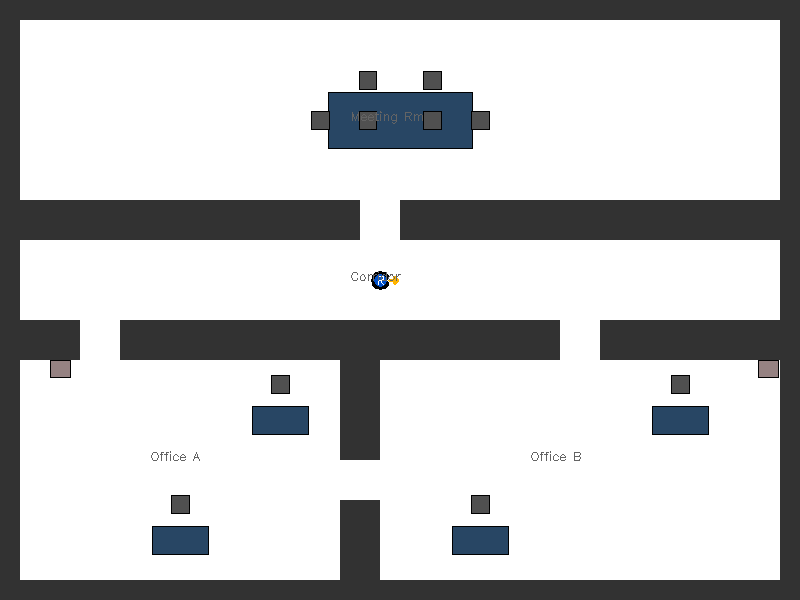
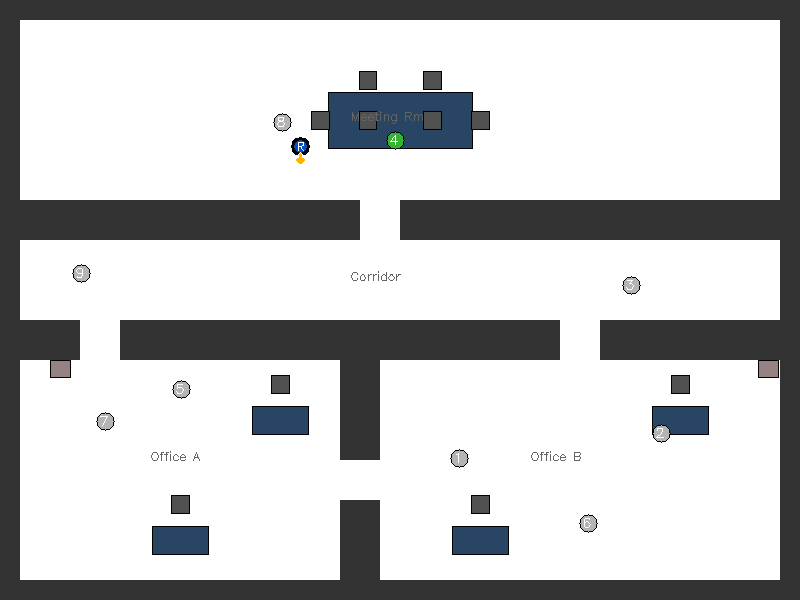
fixed los bug due to using odom

diff --git a/src/metrics/object_detection_tracker.py b/src/metrics/object_detection_tracker.py
@@ -77,14 +77,15 @@ class ObjectDetectionTracker:
         self._start_time: float = 0.0
         self._first_detections: dict[str, float] = {}  # class_id → elapsed_s
         self._sub: Any = None
-        self._odom_sub: Any = None
+        self._odom_sub: Any = None   # fallback only; kept alive while subscribed
+        self._gz_node: Any = None    # gz-transport node; kept alive to maintain subscription
         # LOS state — camera world position (precomputed from robot pose + offset)
         self._robot_pose: tuple[float, float] | None = None  # camera world (x, y)
         self._pgm_pixels: list[list[int]] | None = None      # occupancy grid rows
         self._pgm_W: int = 0
         self._pgm_H: int = 0
         self._map_res: float = 0.5  # metres per grid cell
-        # Spawn offset (world frame) — loaded from world_state.json
+        # Spawn offset — only used for the odom fallback path
         self._spawn_x: float = 0.0
         self._spawn_y: float = 0.0
         self._spawn_yaw: float = 0.0  # kept alive to keep subscription active
@@ -108,14 +109,26 @@ class ObjectDetectionTracker:
     def _load_pgm(self) -> None:
         """Load occupancy grid from PGM for LOS ray-casting."""
         try:
-            import cv2
+            import numpy as np  # noqa: PLC0415
 
             state = json.loads(_WORLD_STATE_PATH.read_text())
             self._map_res = float(state.get("map_resolution", 0.5))
             pgm_path = state["map_pgm"]
-            grid = cv2.imread(pgm_path, cv2.IMREAD_GRAYSCALE)
-            if grid is None:
+            raw = open(pgm_path, "rb").read()  # noqa: WPS515
+            # Parse P5 (binary) PGM header — same logic as exploration_coverage.py
+            lines: list[str] = []
+            idx = 0
+            while len(lines) < 3:
+                end = raw.index(b"\n", idx)
+                token = raw[idx:end].strip()
+                idx = end + 1
+                if not token or token.startswith(b"#"):
+                    continue
+                lines.append(token.decode())
+            if lines[0] != "P5":
                 return
+            W, H = map(int, lines[1].split())
+            grid = np.frombuffer(raw[idx:], dtype=np.uint8).reshape((H, W))
             self._pgm_H, self._pgm_W = grid.shape
             # Store as list-of-lists (row-major, row 0 = top of map = max world-y)
             self._pgm_pixels = grid.tolist()
@@ -123,9 +136,19 @@ class ObjectDetectionTracker:
             pass
 
     def _start_pose_listener(self) -> None:
-        """Subscribe to /odom and keep self._robot_pose (camera world pos) current."""
+        """Track camera world position for LOS checks.
+
+        Primary: gz-transport ground-truth pose (accurate, no drift).
+        Fallback: ROS /odom (used only if gz-transport is unavailable).
+        """
+        # robot name = first segment of topic, e.g. /derpbot_0/detections → derpbot_0
+        robot = self._topic.strip("/").split("/")[0]
+
+        # ── Read world_state.json for world_name + spawn offset (odom fallback) ──
+        world_name: str = ""
         try:
             state = json.loads(_WORLD_STATE_PATH.read_text())
+            world_name = state.get("world_name", "")
             sp = state.get("spawn_pose", {})
             self._spawn_x = float(sp.get("x", 0.0))
             self._spawn_y = float(sp.get("y", 0.0))
@@ -133,31 +156,44 @@ class ObjectDetectionTracker:
         except Exception:
             pass
 
-        # robot name = first segment of topic, e.g. /derpbot_0/detections → derpbot_0
-        robot = self._topic.strip("/").split("/")[0]
-        odom_topic = f"/{robot}/odom"
+        # ── Primary: gz-transport ground-truth pose ────────────────────────────
+        if world_name:
+            try:
+                from utils.gz_transport import gz_subscribe_robot_pose  # noqa: PLC0415
 
-        from nav_msgs.msg import Odometry  # noqa: PLC0415
+                def _on_gz_pose(x: float, y: float, yaw: float) -> None:
+                    self._robot_pose = (
+                        x + CAMERA_FORWARD_OFFSET * math.cos(yaw),
+                        y + CAMERA_FORWARD_OFFSET * math.sin(yaw),
+                    )
 
-        def _on_odom(msg: Any) -> None:
-            ox = msg.pose.pose.position.x
-            oy = msg.pose.pose.position.y
-            q = msg.pose.pose.orientation
-            yaw = math.atan2(
-                2.0 * (q.w * q.z + q.x * q.y),
-                1.0 - 2.0 * (q.y * q.y + q.z * q.z),
-            )
-            sy, cy = math.sin(self._spawn_yaw), math.cos(self._spawn_yaw)
-            wx = self._spawn_x + cy * ox - sy * oy
-            wy = self._spawn_y + sy * ox + cy * oy
-            wyaw = self._spawn_yaw + yaw
-            # Track camera world position (robot centre + forward offset along heading)
-            self._robot_pose = (
-                wx + CAMERA_FORWARD_OFFSET * math.cos(wyaw),
-                wy + CAMERA_FORWARD_OFFSET * math.sin(wyaw),
-            )
+                self._gz_node = gz_subscribe_robot_pose(robot, world_name, _on_gz_pose)
+            except Exception:
+                self._gz_node = None
 
-        self._odom_sub = self._node.create_subscription(Odometry, odom_topic, _on_odom, 10)
+        # ── Fallback: ROS /odom (spawn-offset corrected) ───────────────────────
+        if self._gz_node is None:
+            odom_topic = f"/{robot}/odom"
+            from nav_msgs.msg import Odometry  # noqa: PLC0415
+
+            def _on_odom(msg: Any) -> None:
+                ox = msg.pose.pose.position.x
+                oy = msg.pose.pose.position.y
+                q = msg.pose.pose.orientation
+                yaw = math.atan2(
+                    2.0 * (q.w * q.z + q.x * q.y),
+                    1.0 - 2.0 * (q.y * q.y + q.z * q.z),
+                )
+                sy, cy = math.sin(self._spawn_yaw), math.cos(self._spawn_yaw)
+                wx = self._spawn_x + cy * ox - sy * oy
+                wy = self._spawn_y + sy * ox + cy * oy
+                wyaw = self._spawn_yaw + yaw
+                self._robot_pose = (
+                    wx + CAMERA_FORWARD_OFFSET * math.cos(wyaw),
+                    wy + CAMERA_FORWARD_OFFSET * math.sin(wyaw),
+                )
+
+            self._odom_sub = self._node.create_subscription(Odometry, odom_topic, _on_odom, 10)
 
     def _has_line_of_sight(self, class_id: str) -> bool:
         """Return True if a clear sightline exists from camera to the object.

diff --git a/src/world_manager/object_placer.py b/src/world_manager/object_placer.py
@@ -365,7 +365,7 @@ class ObjectPlacer:
     def _is_valid(
         self, x: float, y: float, placed: list[PlacedObject], skip_pgm: bool = False
     ) -> bool:
-        """True iff (x, y) is free, wall-clear (unless *skip_pgm*), and inter-object-clear."""
+        """True iff (x, y) is free, wall-clear (unless *skip_pgm*), furniture-clear, and inter-object-clear."""
         if not skip_pgm:
             # ── Wall / boundary clearance ─────────────────────────────────────
             c_px = int(math.ceil(self._clearance / self._resolution))
@@ -383,6 +383,13 @@ class ObjectPlacer:
                         return False
                     if not self._gt_mask[r, c]:
                         return False
+
+            # ── Furniture obstacle clearance ──────────────────────────────────
+            for obs in self._obstacles:
+                hw = obs["w"] / 2 + self._clearance
+                hh = obs["h"] / 2 + self._clearance
+                if abs(x - obs["x"]) < hw and abs(y - obs["y"]) < hh:
+                    return False
 
         # ── Inter-object clearance (always applied) ───────────────────────────
         for p in placed:

diff --git a/src/metrics/reporter.py b/src/metrics/reporter.py
@@ -124,8 +124,10 @@ def render_scorecard(sc: Scorecard) -> str:
 
 
 def write_results(scorecard: Scorecard, output_dir: Path) -> Path:
+    from datetime import datetime  # noqa: PLC0415
     output_dir.mkdir(parents=True, exist_ok=True)
-    out_file = output_dir / f"{scorecard.scenario_name}.json"
+    ts = datetime.now().strftime("%Y%m%dT%H%M%S")
+    out_file = output_dir / f"{scorecard.scenario_name}_{ts}.json"
     with open(out_file, "w") as f:
         json.dump(scorecard.__dict__, f, indent=2, default=str)
     return out_file

diff --git a/src/world_manager/world_generator.py b/src/world_manager/world_generator.py
@@ -593,6 +593,7 @@ class WorldGenerator:
             "map_resolution": 0.5,
             "spawn_pose": spawn,
             "obstacles": template_cfg.get("obstacles", []),
+            "world_name": template_name,
         }
         self._output_dir.mkdir(parents=True, exist_ok=True)
         out = self._output_dir / "world_state.json"

diff --git a/readme.md b/readme.md
@@ -81,7 +81,7 @@ The human player gets **only the forward camera** — no map, no object position
 
 **Terminal 1 — simulation (headless; metrics still collected):**
 ```bash
-./scripts/run_scenario.sh config/scenarios/office_explore_detect.yaml --headless --timeout 300
+./scripts/run_scenario.sh config/scenarios/office_explore_detect/easy.yaml --headless --timeout 300
 ```
 
 **Terminal 2 — camera-only view:**
@@ -109,8 +109,6 @@ python3.12 -m pytest tests/
 
 To fix: 
 - collisions don't seem to count correctly? Hitting door 3 times, only one detected.
+- add a location to detection topic (if not already done) that can be checked for category and location
 
-to test: 
-- no flickering lights
-- smoke in correct yaml
   
